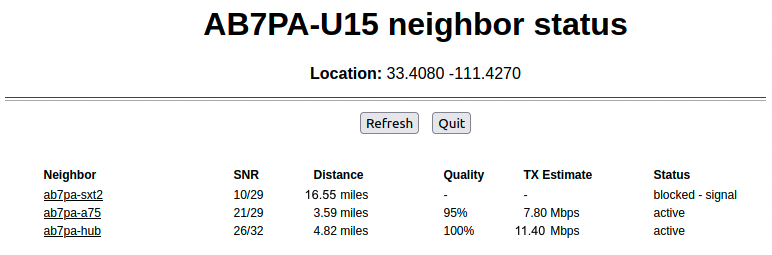
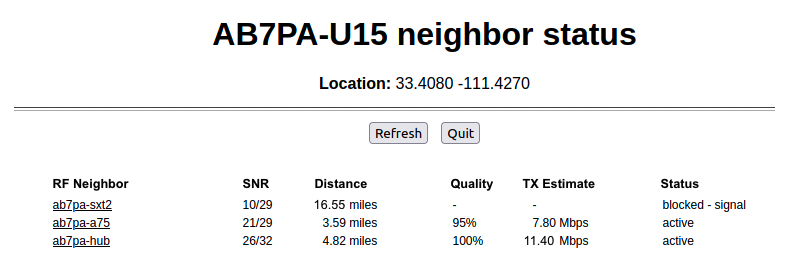
update new LQM value and screenshot (#164)

diff --git a/arednGettingStarted/basic_setup.rst b/arednGettingStarted/basic_setup.rst
@@ -46,16 +46,27 @@ Mesh RF
 Channel and Channel Width
   Nodes communicate only with other nodes that use the same SSID, channel and channel width. You can determine the correct settings by talking with other local node operators to find out which settings are required for joining their networks.
 
+See the **Configuration Deep Dive** section for more information about these and other settings in the *Mesh RF* column.
+
 Power & Distance Settings
-  See the *Configuration Deep Dive* section for more information about these and other settings in the **Mesh RF** column.
+  If you have *Link Quality Manager* disabled, you will see the *Power & Distance* settings.
 
   - Use the dropdown list to select the maximum output power for this device. Remember that amateur operators are required to use the minimum power necessary to make contact with other stations.
 
-  - Use the slider to select the maximum distance you estimate between your node and other neighboring nodes. The default value is *zero* which tells the node to automatically determine the correct distance value to the farthest neighbor node. See the **Configuration Deep Dive** section for additional information.
+  - Use the slider to select the maximum distance you estimate between your node and other neighboring nodes. The default value is *zero* which tells the node to automatically determine the correct distance value to the farthest neighbor node.
 
   - Some devices have max power levels that change depending on the channel or frequency being used, and in that case the max level may change when you save the settings. The output power will be capped at the max level supported by the hardware for that frequency.
 
-  - Once these settings have been adjusted, click the **Apply** button.
+Power & Link Quality Settings
+  If you have *Link Quality Manager* enabled, you will see the *Power & Link Quality* settings.
+
+  - Use the dropdown list to select the maximum output power for this device. Remember that amateur operators are required to use the minimum power necessary to make contact with other stations.
+
+  - *Max Distance* is the maximum distance between nodes at which you can expect to achieve a usable radio link. The default value is 50 miles / 80 kilometers, but you can adjust this setting if your node is only able to maintain a usable radio link with nearby nodes.
+
+  - *Min SNR* is the minimum Signal-to-Noise ratio that you require in order to reliably pass data between nodes. The default is 15 dB, but you can adjust this value if you require your node to continue passing data even on links that have reduced signal characteristics.
+
+  - *Min Quality* is the minimum Link Quality required in order to reliably pass data between nodes. This is calculated as the moving average of total sent packets over total sent packets plus retransmissions. For example, if the node had to send every packet twice for it to be successfully received, the link quality would be 50%.
 
 Once you have entered, applied, and verified that your node settings are correct, click the **Save Changes** button. Your node will record the new configuration settings and automatically reboot.
 

diff --git a/arednGettingStarted/node_status.rst b/arednGettingStarted/node_status.rst
@@ -97,7 +97,7 @@ If you enabled *Link Quality Manager* (LQM), the *Neighbor Status* button will b
 
 |
 
-Neighbor
+RF Neighbor
   The neighbor node name with a clickable link to open that node's *Status* display.
 
 SNR
@@ -126,7 +126,7 @@ Status
   - *blocked - dup*: LQM blocks a link in cases when your node has an RF link to other nodes which themselves connect to each other via DtD. This can occur when there are multiple radios at a site using the same channel. The best remote node is chosen as the RF link for your node but the other possible RF connections are blocked as duplicates.
   - *blocked - user*: LQM will block any node which you enter in the *User Blocked Nodes* field described in the *Advanced Configuration* section.
 
-The *Neighbor Status* table will be refreshed automatically every minute as LQM evaluates your node's radio links on an ongoing basis. Links whose quality has improved may be activated, while links whose quality has worsened may be blocked. To refresh the neighbor list on demand you can click the **Refresh** button. If you want to return to the *Node Status* display, click the **Quit** button.
+The *Neighbor Status* table will be refreshed automatically every minute as LQM evaluates your node's radio links on an ongoing basis. Links whose quality has improved may be activated, while links whose quality has worsened may be blocked. If an existing node link goes offline, it will age out of the list within about an hour. To refresh the neighbor list on demand you can click the **Refresh** button. If you want to return to the *Node Status* display, click the **Quit** button.
 
 AREDN |trade| Alert Messages
 ----------------------------

diff --git a/arednGettingStarted/advanced_config.rst b/arednGettingStarted/advanced_config.rst
@@ -472,7 +472,7 @@ Link Quality Manager (LQM) Settings
     The margin above the *Minimum Quality* that must be detected in order for a node to be returned to the active list based on quality. The default value is 1 percent.
 
   Ping Penalty
-    The Link Quality penalty that is imposed on calculations if a remote node does not respond to a ping request. The default value is 10 percent. This setting may be helpful for cases when a link would otherwise be marked *active* but the remote node is currently unreachable on the network.
+    The Link Quality penalty that is imposed on calculations if a remote node does not respond to a ping request. The default value is 5 percent. This setting may be helpful for cases when a link would otherwise be marked *active* but the remote node is currently unreachable on the network.
 
   User Blocked Nodes
     A comma-separated list of MAC addresses which you desire to block from your neighbors list. This feature allows you to "blacklist" specific nodes. Nodes are blocked by their Wifi MAC address which must be all uppercase with the hex pairs separated by colons. Whitespace is not permitted in this list of MAC addresses.

diff --git a/arednHow-toGuides/lqm.rst b/arednHow-toGuides/lqm.rst
@@ -1,6 +1,6 @@
-========================================
-AREDN |trade| Link Quality Manager (LQM)
-========================================
+==========================
+Link Quality Manager (LQM)
+==========================
 
 *Contributor: Tim Wilkerson KN6PLV*
 
